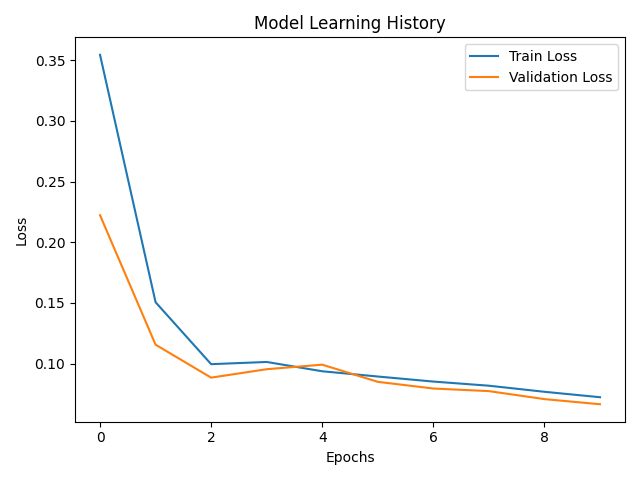
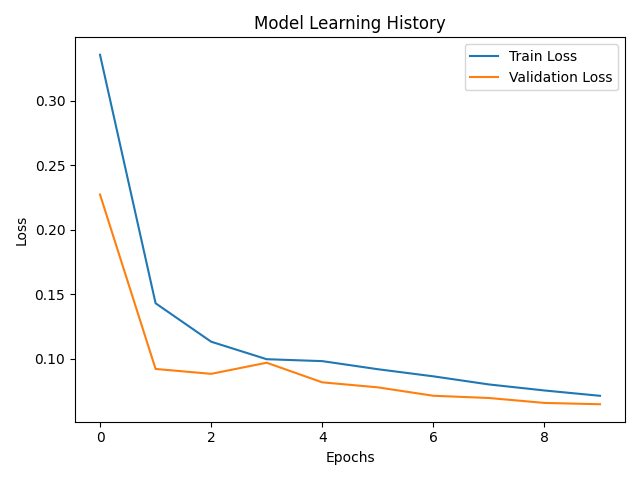
Update train metrics and model architecture

diff --git a/src/models/train.py b/src/models/train.py
@@ -2,8 +2,8 @@
 import numpy as np
 from sklearn.preprocessing import MinMaxScaler
 import tensorflow
-#from tensorflow.keras.layers import LSTM, Dense 
-#from tensorflow.keras.models import Sequential
+from tensorflow.keras.layers import LSTM, Dense 
+from tensorflow.keras.models import Sequential
 import joblib
 import src.data.prepare_learn_data as pld
 import src.helpers.calculate as calc
@@ -33,22 +33,11 @@ def save_test_metrics(mae, mse, evs, file_path):
         file.write(f"EVS: {evs}\n")
 
 def build_lstm_model(input_shape):
-    """ model = Sequential()
+    model = Sequential()
     model.add(LSTM(units=32, return_sequences=True, input_shape=input_shape))
     model.add(LSTM(units=32))
     model.add(Dense(units=16, activation='relu'))
-    model.add(Dense(units=1)) """
-    model = tensorflow.keras.models.Sequential()
-
-    model.add(tensorflow.keras.layers.GRU(32, return_sequences=True, input_shape=input_shape))
-
-    model.add(tensorflow.keras.layers.GRU(32, activation='relu'))
-
-    model.add(tensorflow.keras.layers.Dense(16, activation='relu'))
-
-    model.add(tensorflow.keras.layers.Dense(1))
-
-    model.compile(optimizer='adam', loss='mean_squared_error')
+    model.add(Dense(units=1))
 
     return model
 
